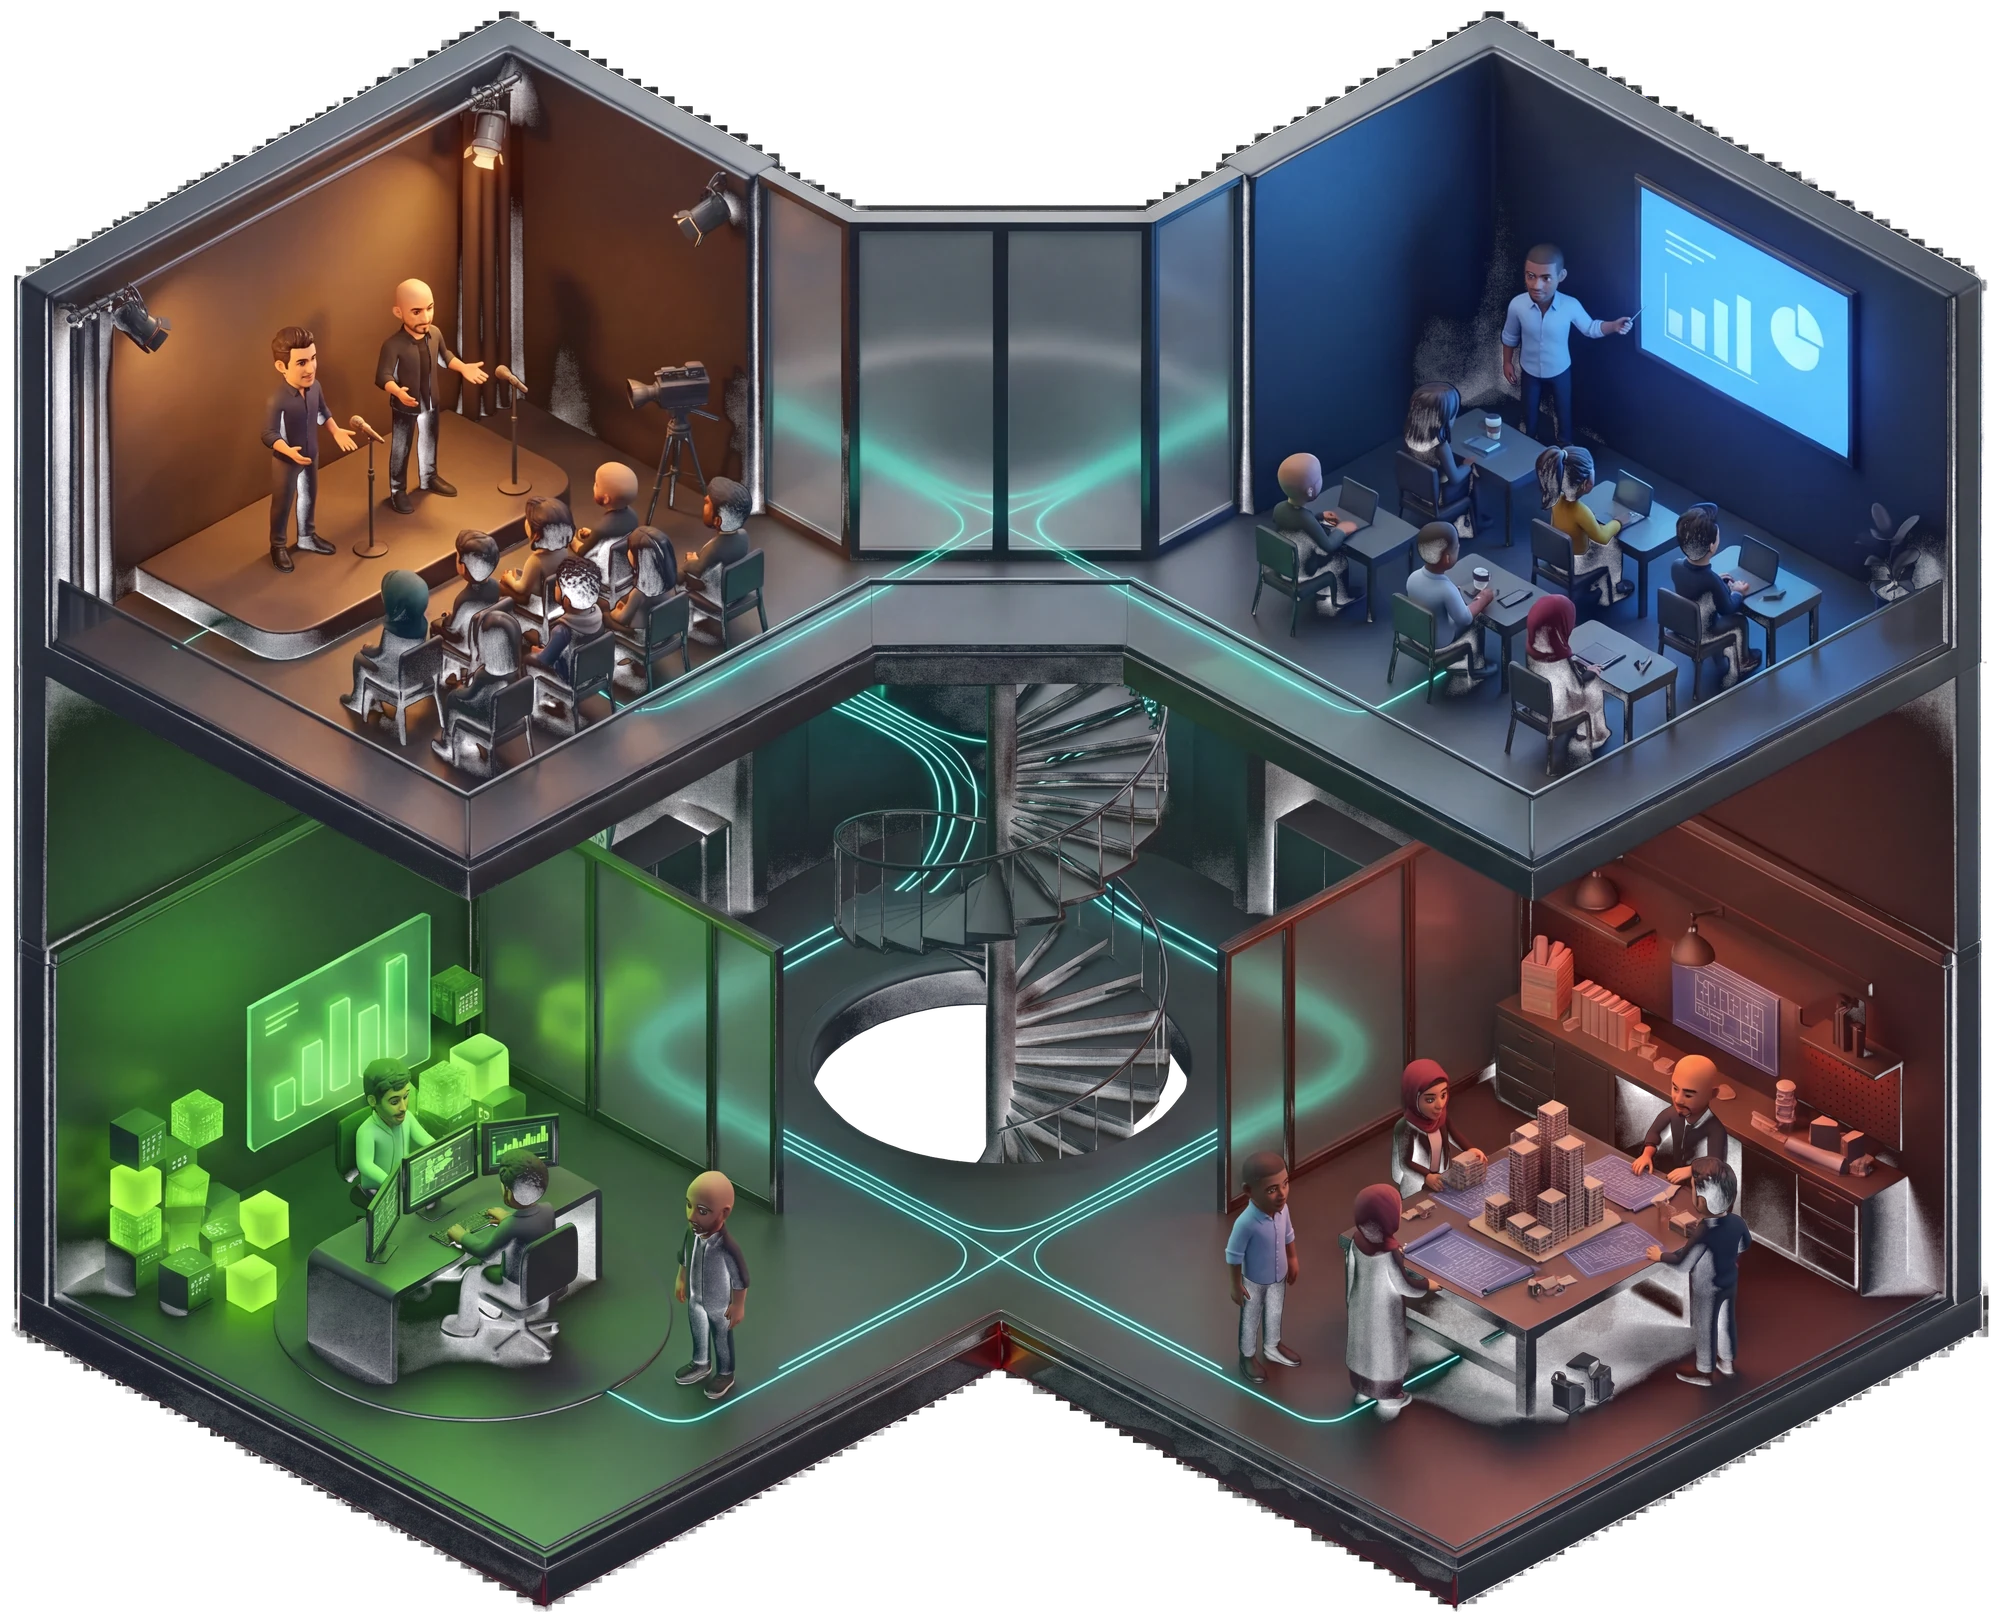
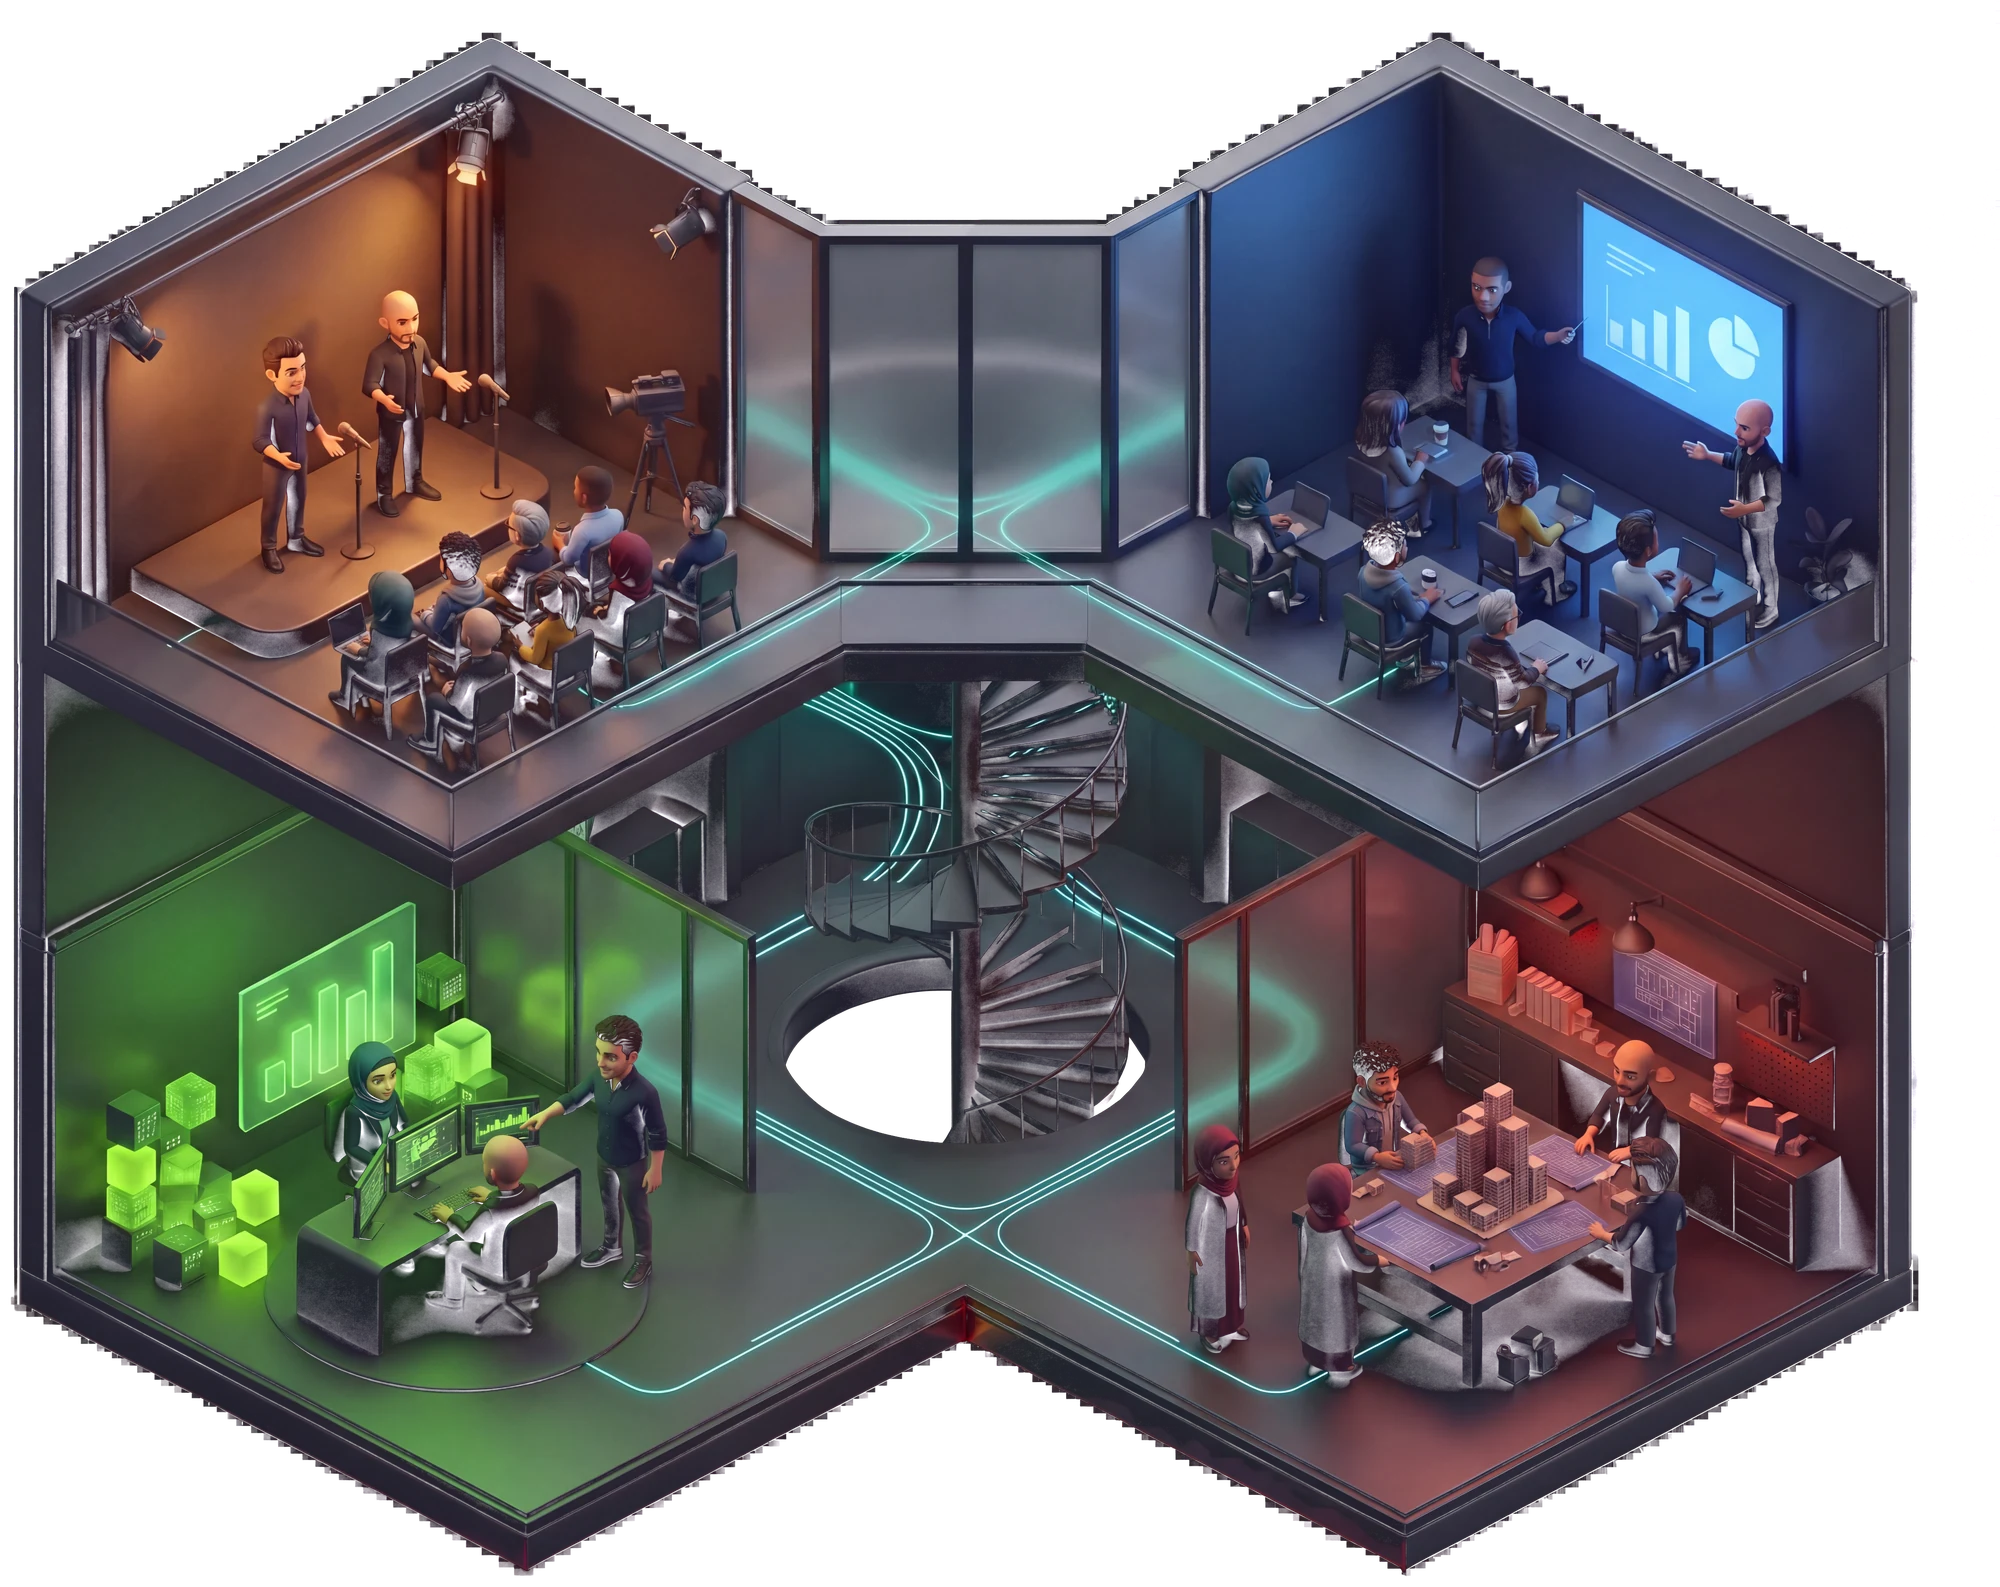
Landing: both partners in every room of the house and journey, cleaner faces
House and journey were edited in tiles at twice the resolution (AI Studio, Nano
Banana Pro) and stitched back along low-difference seams, so the layout, camera
stops and threads stay where they were while faces render clean.

Claude-Session: https://claude.ai/code/session_018RCKuAqLNg43PyQqtjNNDi

diff --git a/src/app/site/page.tsx b/src/app/site/page.tsx
@@ -256,7 +256,7 @@ export default async function SitePage() {
                 src="/landing/house.webp"
                 alt="A 3D cutaway of the VentureWeavers house: a show stage, a classroom, a workshop and an AI lab, joined by glowing teal threads"
                 width={2000}
-                height={1623}
+                height={1587}
                 priority
                 sizes="(min-width: 900px) 760px, 100vw"
                 hotspots={HOUSE_SPOTS}
